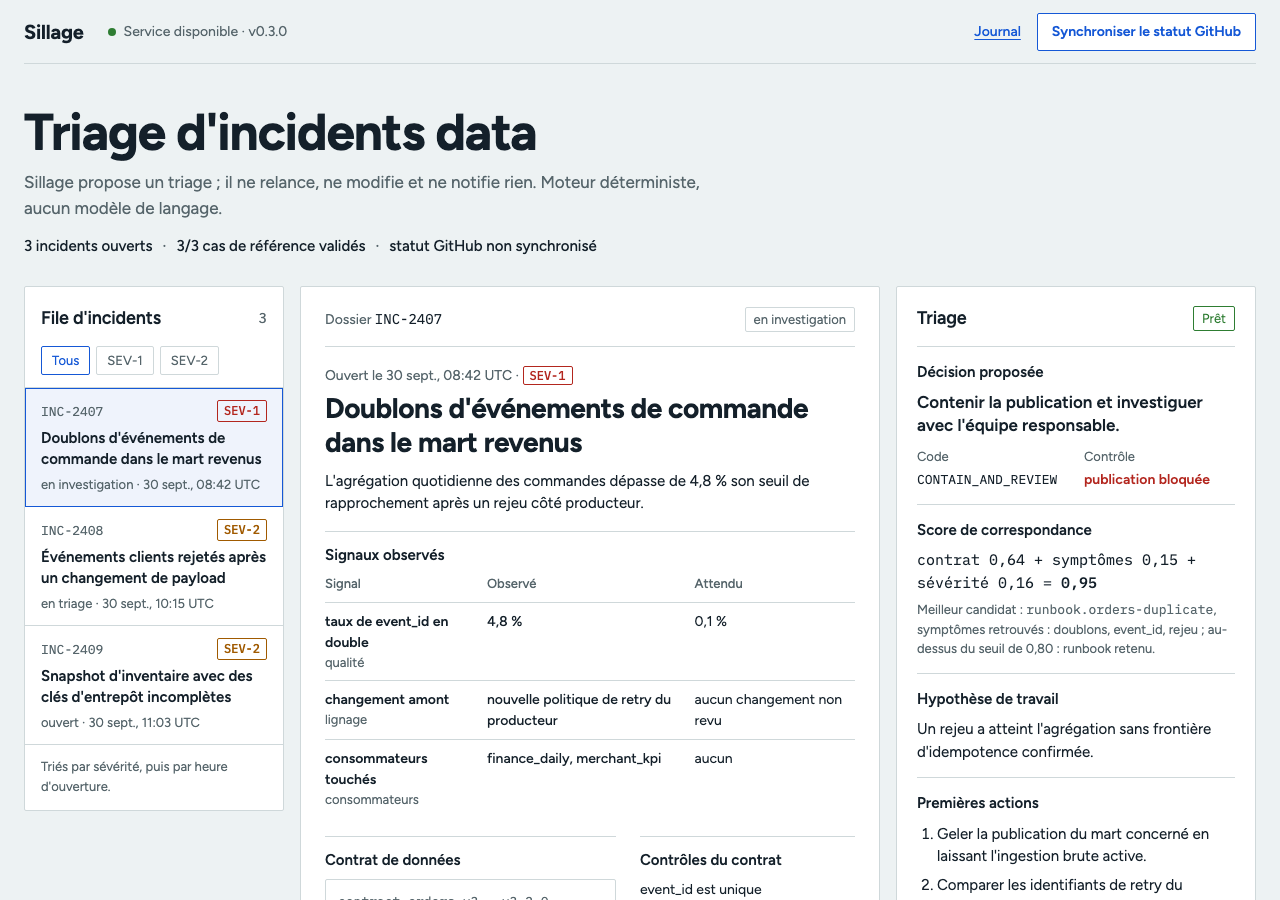
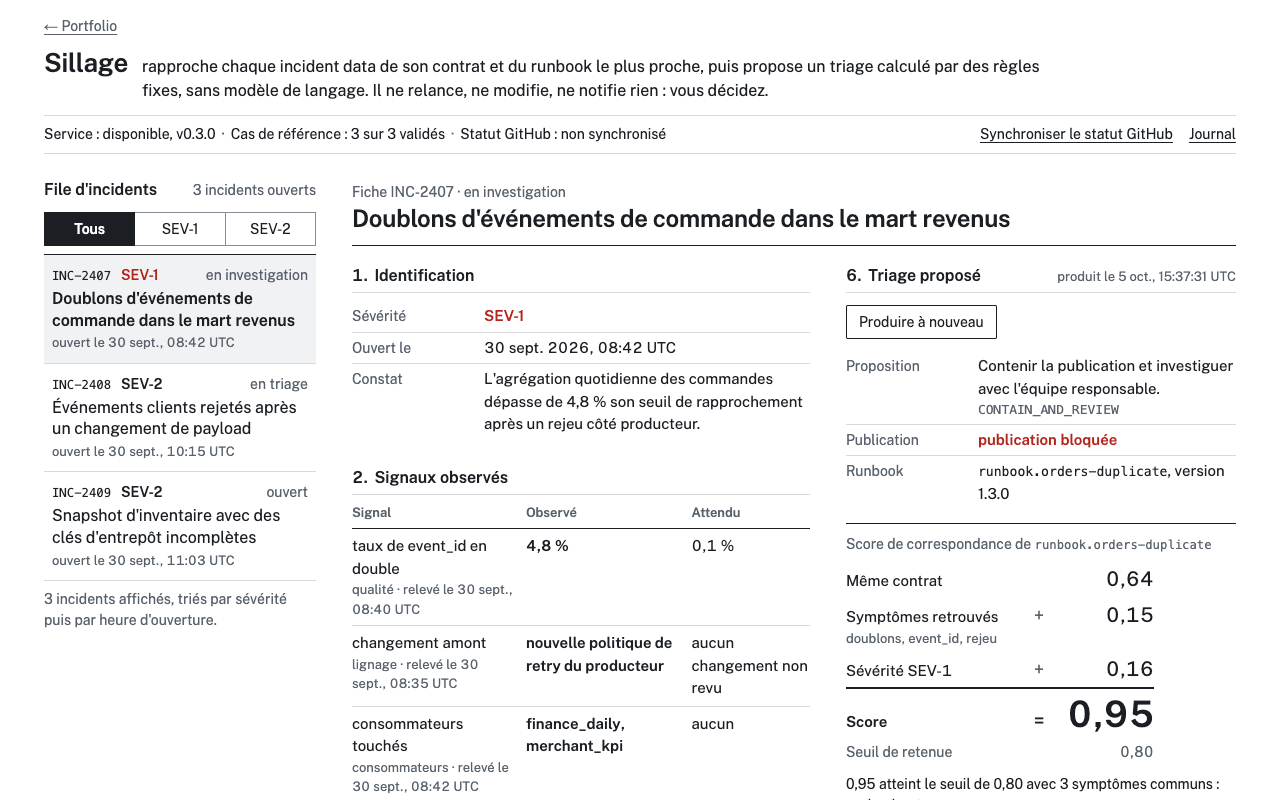
Remplacer la capture par la fiche INC-2407 après triage

diff --git a/README.md b/README.md
@@ -4,9 +4,9 @@ Sillage relie un incident data à son contrat de données, au runbook pertinent 
 
 Sillage ne relance aucune donnée, ne modifie ni contrôle qualité ni contrat et ne notifie personne. La décision reste à l'équipe responsable.
 
-![Interface de Sillage : file de trois incidents, dossier INC-2407 (doublons dans le mart revenus) avec ses signaux et son contrat, et triage produit avec la décision proposée et le détail du score de correspondance](docs/demo.png)
+![Interface de Sillage : file de trois incidents à gauche, fiche INC-2407 (doublons dans le mart revenus) avec identification, signaux observés et triage proposé, dont le calcul du score de correspondance](docs/demo.png)
 
-La capture montre le dossier INC-2407 ouvert et son triage : décision « contenir la publication », publication bloquée, score de correspondance 0,95 détaillé en contrat 0,64 + symptômes 0,15 + sévérité 0,16.
+La capture montre la fiche INC-2407 après triage : proposition « contenir la publication », publication bloquée, et le calcul posé du score, contrat 0,64 + symptômes 0,15 + sévérité 0,16 = 0,95 pour un seuil de 0,80. Plus bas, la fiche se termine par la décision humaine (accepter, demander des éléments, rejeter), signée « vous (démo) » et horodatée par le journal.
 
 ## Pourquoi
 
@@ -27,7 +27,7 @@ décision humaine et journal local
 
 ## Ce qui fonctionne
 
-- Une API FastAPI et une page de triage : file d'incidents, fiche dossier (signaux, contrat, contrôles, consommateurs), triage avec ses éléments cités, sa provenance et le classement des runbooks.
+- Une API FastAPI et une page en forme de fiche d'incident : file d'incidents, puis identification, signaux observés, contrat, contrôles, consommateurs, triage proposé et décision, dans cet ordre.
 - Un routage par score de correspondance calculé et affiché (voir plus bas), avec abstention explicite (`INSUFFICIENT_EVIDENCE`) quand aucun runbook n'atteint le seuil.
 - Une décision humaine enregistrée comme reçu (accepté, éléments demandés, rejeté) dans un journal SQLite chaîné par empreintes ; aucune revue ne déclenche d'action.
 - Trois cas de référence hors ligne, exécutés par la CI, qui vérifient le runbook retenu, la décision, la complétude de la provenance et l'absence d'action automatique.
